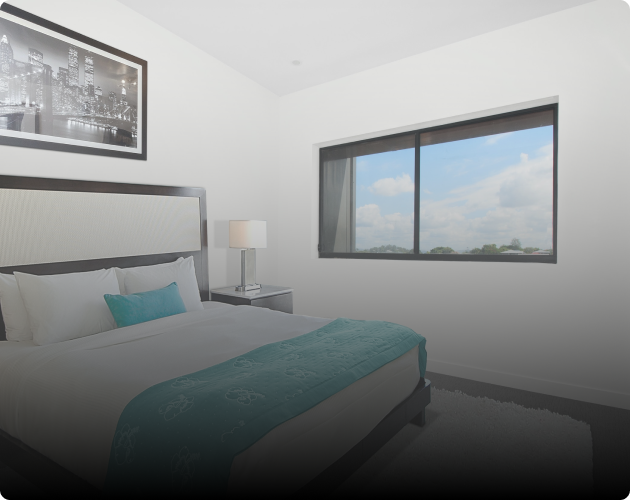
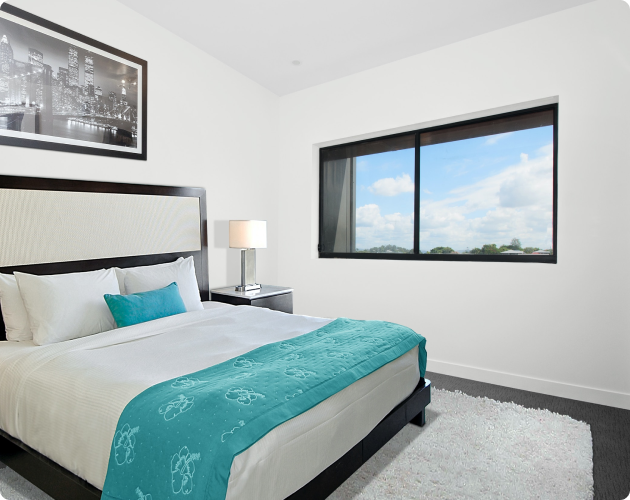
Added the content for the Rooms and Rates section, which has a grid with a card for each type of room. Replaced the room image files since they had a gradient over them, and instead I created the gradient myself in css.

diff --git a/Simple Hotel Website/index.html b/Simple Hotel Website/index.html
@@ -22,7 +22,7 @@
 </head>
 
 <body>
-    <main class="container-fluid text-center p-0">
+    <main class="container-fluid text-center p-0 bg-light">
         <!-- Logo & Nav -->
         <header>
             <img class="mt-4 mb-5" src="assets/logo1.png" />
@@ -163,7 +163,8 @@
 
                 <!-- Taxi -->
                 <span>
-                    <svg class="d-block m-auto mb-3" width="60" height="60" viewBox="0 0 60 60" fill="none" xmlns="http://www.w3.org/2000/svg">
+                    <svg class="d-block m-auto mb-3" width="60" height="60" viewBox="0 0 60 60" fill="none"
+                        xmlns="http://www.w3.org/2000/svg">
                         <path
                             d="M51.93 25.39L48.51 15.1275C48.0139 13.6337 47.0596 12.3342 45.7828 11.4138C44.506 10.4933 42.9715 9.9986 41.3975 10H35V5H25V10H18.6025C17.0285 9.9986 15.494 10.4933 14.2172 11.4138C12.9404 12.3342 11.9861 13.6337 11.49 15.1275L8.07 25.39C7.16153 25.7712 6.38569 26.4119 5.83961 27.2319C5.29353 28.0519 5.00147 29.0148 5 30V42.5C5 44.3825 6.0575 46.005 7.5975 46.8575C7.565 47.0225 7.5 47.1725 7.5 47.345V52.5C7.5 53.163 7.76339 53.7989 8.23223 54.2678C8.70107 54.7366 9.33696 55 10 55H12.5C13.163 55 13.7989 54.7366 14.2678 54.2678C14.7366 53.7989 15 53.163 15 52.5V47.5H45V52.5C45 53.163 45.2634 53.7989 45.7322 54.2678C46.2011 54.7366 46.837 55 47.5 55H50C50.663 55 51.2989 54.7366 51.7678 54.2678C52.2366 53.7989 52.5 53.163 52.5 52.5V47.345C52.5 47.1725 52.435 47.02 52.4025 46.8575C53.186 46.4303 53.8404 45.8006 54.2973 45.0341C54.7543 44.2675 54.9969 43.3924 55 42.5V30C55 27.9275 53.73 26.1475 51.93 25.39ZM10 42.5V30H50L50.005 42.5H10ZM18.6025 15H41.395C42.4725 15 43.4275 15.685 43.7675 16.71L46.5325 25H13.4675L16.23 16.71C16.3959 16.212 16.7143 15.7788 17.1401 15.4719C17.566 15.165 18.0776 14.9999 18.6025 15Z"
                             fill="#DFAA5B" />
@@ -180,8 +181,54 @@
         </section>
 
         <!-- Rooms & Rates -->
-        <section>
+        <section class="container py-5">
+            <h2 class="text-primary fs-1 fw-bold mb-5">Rooms & Rates</h2>
 
+            <div class="grid">
+                <div class="row gap-5 mb-5">
+                    <!-- Standard Twin Room -->
+                    <div class="card col p-0 border-0">
+                        <img class="card-img" src="assets/twin_room.png" alt="" />
+                        <div
+                            class="card-img-overlay gradient d-flex flex-column justify-content-end align-items-center pb-5">
+                            <h3 class="card-title text-light fs-2 mb-3">Standard Twin Room</h3>
+                            <a class="card-link btn btn-primary py-3 w-25" href="#">Check Rates</a>
+                        </div>
+                    </div>
+
+                    <!-- Standard Room -->
+                    <div class="card col p-0 border-0">
+                        <img class="card-img" src="assets/standard_room.png" alt="" />
+                        <div
+                            class="card-img-overlay gradient d-flex flex-column justify-content-end align-items-center pb-5">
+                            <h3 class="card-title text-light fs-2 mb-3">Standard Room</h3>
+                            <a class="card-link btn btn-primary py-3 w-25" href="#">Check Rates</a>
+                        </div>
+                    </div>
+                </div>
+
+                <div class="row gap-5">
+                    <!-- Standard View Room -->
+                    <div class="card col p-0 border-0">
+                        <img class="card-img" src="assets/view_room.png" alt="" />
+                        <div
+                            class="card-img-overlay gradient d-flex flex-column justify-content-end align-items-center pb-5">
+                            <h3 class="card-title text-light fs-2 mb-3">Standard View Room</h3>
+                            <a class="card-link btn btn-primary py-3 w-25" href="#">Check Rates</a>
+                        </div>
+                    </div>
+
+                    <!-- Deluxe Room -->
+                    <div class="card col p-0 border-0">
+                        <img class="card-img" src="assets/deluxe_room.png" alt="" />
+                        <div
+                            class="card-img-overlay gradient d-flex flex-column justify-content-end align-items-center pb-5">
+                            <h3 class="card-title text-light fs-2 mb-3">Deluxe Room</h3>
+                            <a class="card-link btn btn-primary py-3 w-25" href="#">Check Rates</a>
+                        </div>
+                    </div>
+                </div>
+            </div>
         </section>
 
         <!-- Book Now -->

diff --git a/Simple Hotel Website/style.css b/Simple Hotel Website/style.css
@@ -38,3 +38,7 @@ body {
 .facilities {
     margin-top: -15rem;
 }
+
+.gradient {
+    background: linear-gradient(0deg, rgba(0,0,0,1), rgba(154, 154, 154, 0.4) 35%, rgba(0,0,0,0));
+}
